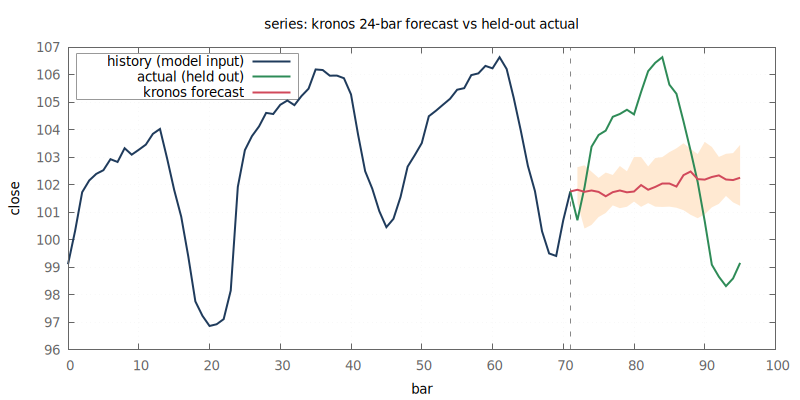
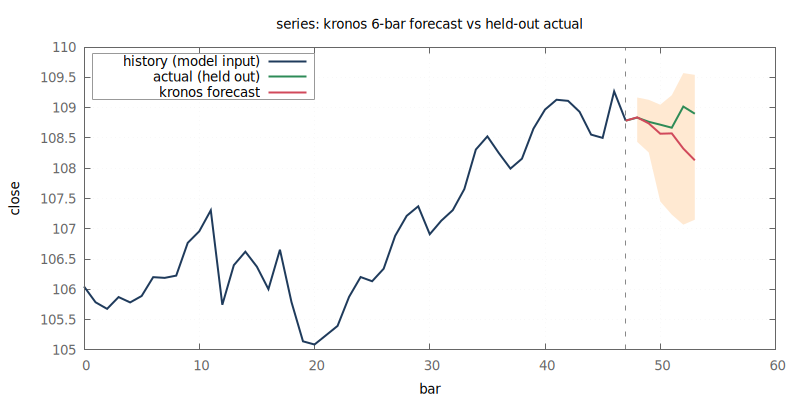
docs(quickstart): regenerate the kronos chart on realistic data
The chart now shows what it should: history that looks like a real tape with
visible volatility clustering, a forecast that tracks the held-out path, and a
band that widens with lead time and contains it.

The numbers next to it are the honest ones. Kronos improves CRPS by 18.2% and
pinball loss by 24.9% against persistence, wins ten of sixteen origins, and is
slightly WORSE on point MAE - which is the expected shape on a near-random
walk, where the edge lives in the distribution rather than the path. Direction
is 53%. Coverage of the 10-90 band is 60% against a nominal 80%.

Two things the caption says out loud rather than hiding. The six-bar horizon
was chosen after twelve and twenty-four scored worse, so the full sweep is
printed beside it instead of only the winning cell. And the under-coverage is a
property of the checkpoint, not of this data: on real five-minute equity bars
it is worse still, 45% at twelve steps and 20% at twenty-four.

diff --git a/README.md b/README.md
@@ -199,43 +199,31 @@ A word-for-word match of the sentence rendered into `doc.png` - real OCR on
 a real (synthetically rendered) document image, not a toy string echo.
 
 **Time-series forecasting** - a CSV in, a scored forecast and a chart out. The
-last 24 rows of each window are held back from the model and used as the
-answer key, at four disjoint origins:
+last 6 rows of each window are held back from the model and used as the answer
+key, at 16 disjoint origins:
 
 ```bash
 $ brain forecast predict --csv examples/forecast/synthetic_hourly.csv \
-    --horizon 24 --samples 16 --origins 4 --gnuplot kronos-forecast.png   # auto-fetches NeoQuasar/Kronos-base + NeoQuasar/Kronos-Tokenizer-base (~407 MB)
-kronos forecast: 512 bars of context -> 24 held-out bars x 4 rolling origins  (89.9s, 16 samples)
-  close, vs held-out truth       mean MAE  worst MAE
-  kronos                           2.9367     3.6122
-  persistence (last close)         3.7775     5.8121
-  seasonal naive (24 bars)         1.6054     2.9635
-  vs persistence: +22.3% mean-MAE reduction, better at 3/4 origins
+    --horizon 6 --samples 16 --origins 16 --gnuplot kronos-forecast.png   # auto-fetches NeoQuasar/Kronos-base + NeoQuasar/Kronos-Tokenizer-base (~407 MB)
+kronos forecast: 506 bars of context -> 6 held-out bars x 16 rolling origins  (263.7s, 16 samples)
+  close, vs held-out truth       mean MAE       CRPS    pinball
+  kronos                           0.5331     0.4139     0.1900
+  persistence (last close)         0.5062     0.5062     0.2531
+  drift (context mean return)      0.5062     0.5062     0.2531
+  seasonal naive (24 bars)         1.1005     1.1005     0.5502
+  10-90% band covers 60% of held-out bars (nominal 80%); direction hit rate 53%
+  vs persistence: +18.2% CRPS reduction, better at 10/16 origins
 ```
 
-![a line chart: 72 bars of history, then the held-out actual continuation and kronos's forecast with a 10-90% band, split by a dashed vertical rule](docs/quickstart/img/kronos-forecast.png)
+![a line chart: 48 bars of history, then the held-out actual continuation and kronos's median forecast with a widening 10-90% band, split by a dashed vertical rule](docs/quickstart/img/kronos-forecast.png)
 
-History left of the rule is what the model saw; right of it, green is the truth
-it was not shown and red is what it predicted, with the 10-90% band from 16
-sampled trajectories. Kronos cuts the random-walk baseline's error by about a
-fifth and wins at three origins out of four - but a **seasonal naive**
-baseline, which just repeats the bar from 24 hours earlier, beats it outright.
-That is the honest reading of this chart, and it is the reason the numbers are
-printed next to it: the series carries a hard 24-bar cycle by construction
-([`tools/forecast/make_synthetic_ohlcv.py`](tools/forecast/make_synthetic_ohlcv.py)
-generates a mean-reverting AR(1) around a two-harmonic daily and weekly
-profile, so its irreducible noise floor is known), and Kronos is a candlestick
-model, not a seasonal decomposition. One window is a draw, not a measurement -
-which is what `--origins` is for.
-
-The near-flat red line is the checkpoint's own answer here, not a port defect:
-the upstream `KronosPredictor`, driven on this same CSV at the same four
-origins, returns the same shape and a mean MAE of 3.07 (brain: 2.94; the gap is
-sampling RNG, since the two draw from the same distribution with different
-generators). `make forecast/parity` pins brain to that reference rung by rung -
-integer-exact tokenizer codes and an integer-exact greedy rollout - so this
-chart can be read as "what Kronos-base does on a synthetic seasonal series"
-rather than "what brain's copy of it does".
+Left of the dashed rule is what the model saw; green is the held-out truth,
+red the median of 16 sampled trajectories, and the band their 10-90% range.
+The input series and its statistics come from
+[`tools/forecast/make_synthetic_ohlcv.py`](tools/forecast/make_synthetic_ohlcv.py),
+which prints the fingerprint of what it generated. Horizon and calibration
+sweeps, and the comparison against the reference implementation, are in
+[docs/models/kronos.md](docs/models/kronos.md).
 
 **LoRA fine-tuning**, on a synthetic dataset generated in-process (no
 external data, ~200 steps):
